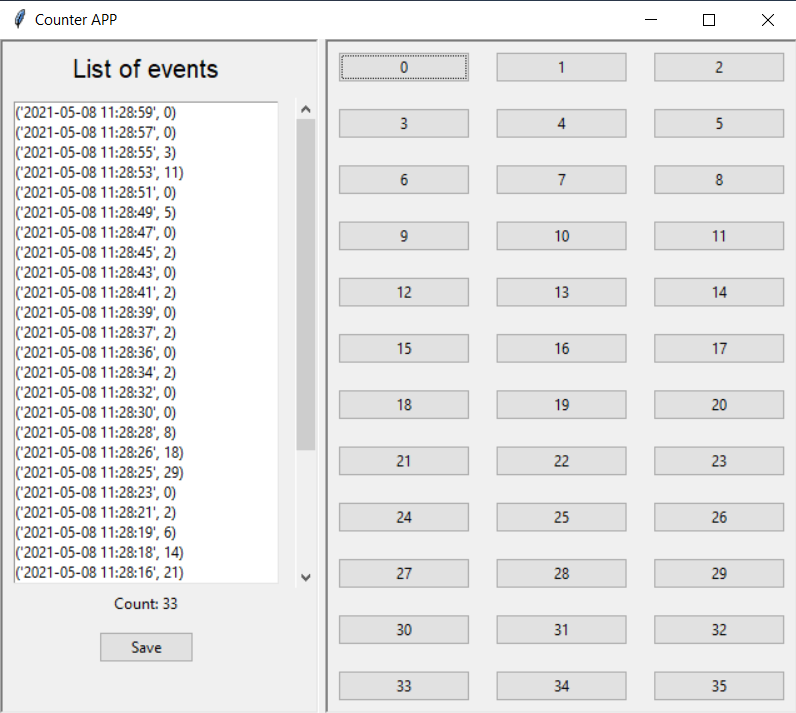
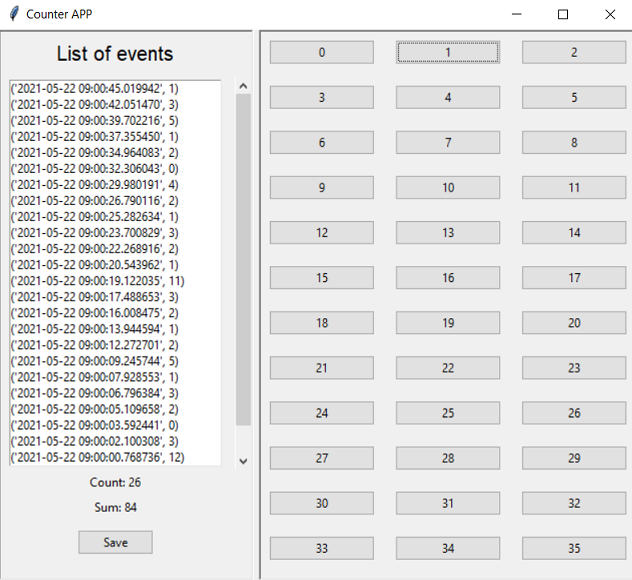
Update app geometry manager and README.md

Changed region(s): [[0.0, 0.0, 1.0, 0.9931], [0.8117, 0.3103, 0.9921, 0.9931], [0.5712, 0.4655, 0.6313, 0.4966]]

diff --git a/Counter_app/counter_app.py b/Counter_app/counter_app.py
@@ -11,9 +11,10 @@ class MainApplication(tk.Frame):
         tk.Frame.__init__(self, master, *args, **kwargs)
         self.master = master
         self.master.title('Counter APP')
+        self.master.geometry('635x550+0+0')
         self.paned_window = ttk.PanedWindow(master, orient=tk.HORIZONTAL)
         self.paned_window.pack(fill=tk.BOTH, expand=True)
-        self._buttons = [] #Initialize empty list to store tkk Buttons
+        self._buttons = [] #Initialize empty list to store ttk Buttons
         self._events_counter = [] #Initialize empty list to store button events
 
     def check_time(self):

diff --git a/Counter_app/README.md b/Counter_app/README.md
@@ -1,10 +1,10 @@
 # COUNTER APP
 
 ## **Problem statement**:
-Counting the number of events from an observed process (i.e. quantity, defects, speed) usually involves writing down information in paper and transcribing it later into a spreadsheet for analysis. This activity is time-consuming, especially for longer periods of observation (where the sample size increases). Additionally, Counting events becomes even more challenging when the observed process must be tracked against a precise measurement of time.
+Counting the number of events from an observed process (i.e. quantity, defects, speed) usually involves writing down information in paper and transcribing it later into a spreadsheet for analysis. This activity is time-consuming, especially for longer periods of observation (where the sample size increases). Additionally, counting events becomes even more challenging when the observed process must be tracked against an accurate measurement of time.
 
 ## **Solution**:
-The COUNTER APP built with Python helps address this issue. A datetime object (with micro-seconds precision) is generated every time a button is pressed from the GUI built with Tkinter. The MainApplication has a paned window to the left that displays all the events that have been tracked in descending order, and shows the cumulative count as well. When the user is ready to finish collecting the data, the save button allows to write all the records to a csv file in the local drive.
+The COUNTER APP built with Python helps address this issue. A datetime object is generated every time a button is pressed from the GUI built with Tkinter. The MainApplication has a paned window to the left that displays all the events that have been registered in descending order, and shows the cumulative count and sum as well. When the user is ready to finish collecting the data, the save button allows to write all the records to a csv file in the local drive.
 
 ## **GUI**
 <img src="images/counter_app_img.png">
@@ -29,6 +29,6 @@ setuptools==49.2.*
 
 This project is licensed under the MIT License - see [MIT license](https://opensource.org/licenses/MIT) for details
 
-## Acknowledgments
+## Acknowledgements
 
 * Acheve
